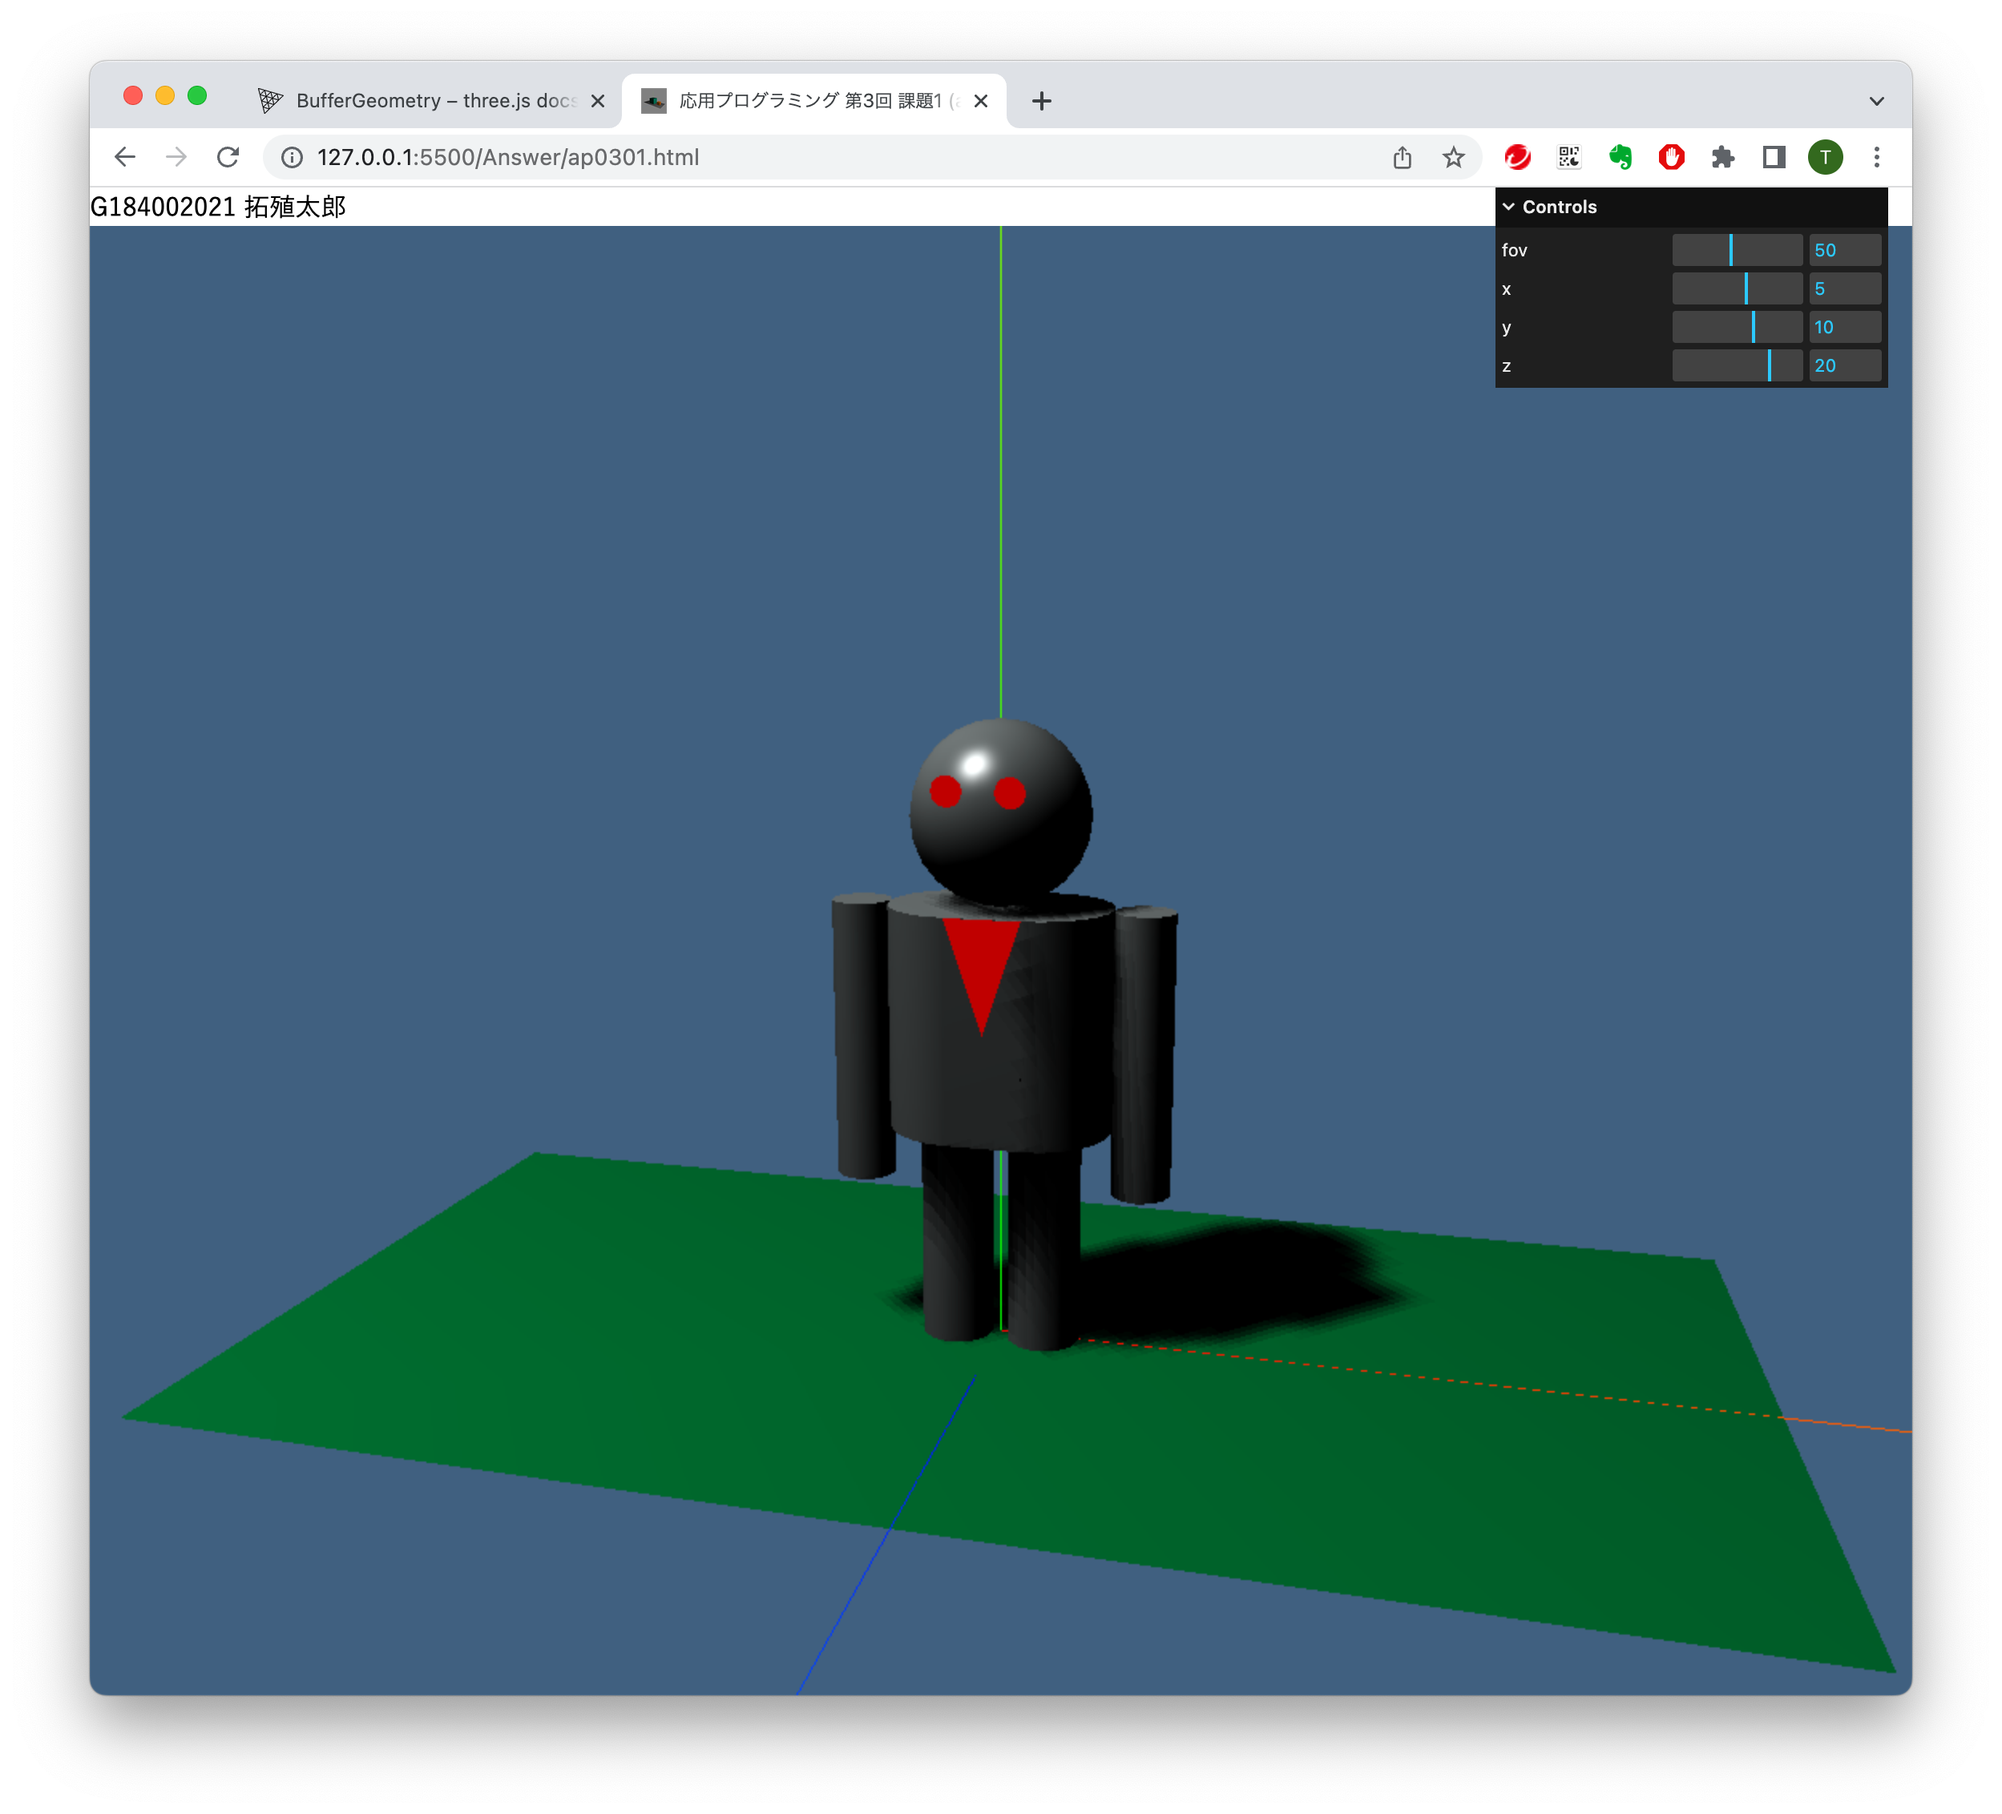
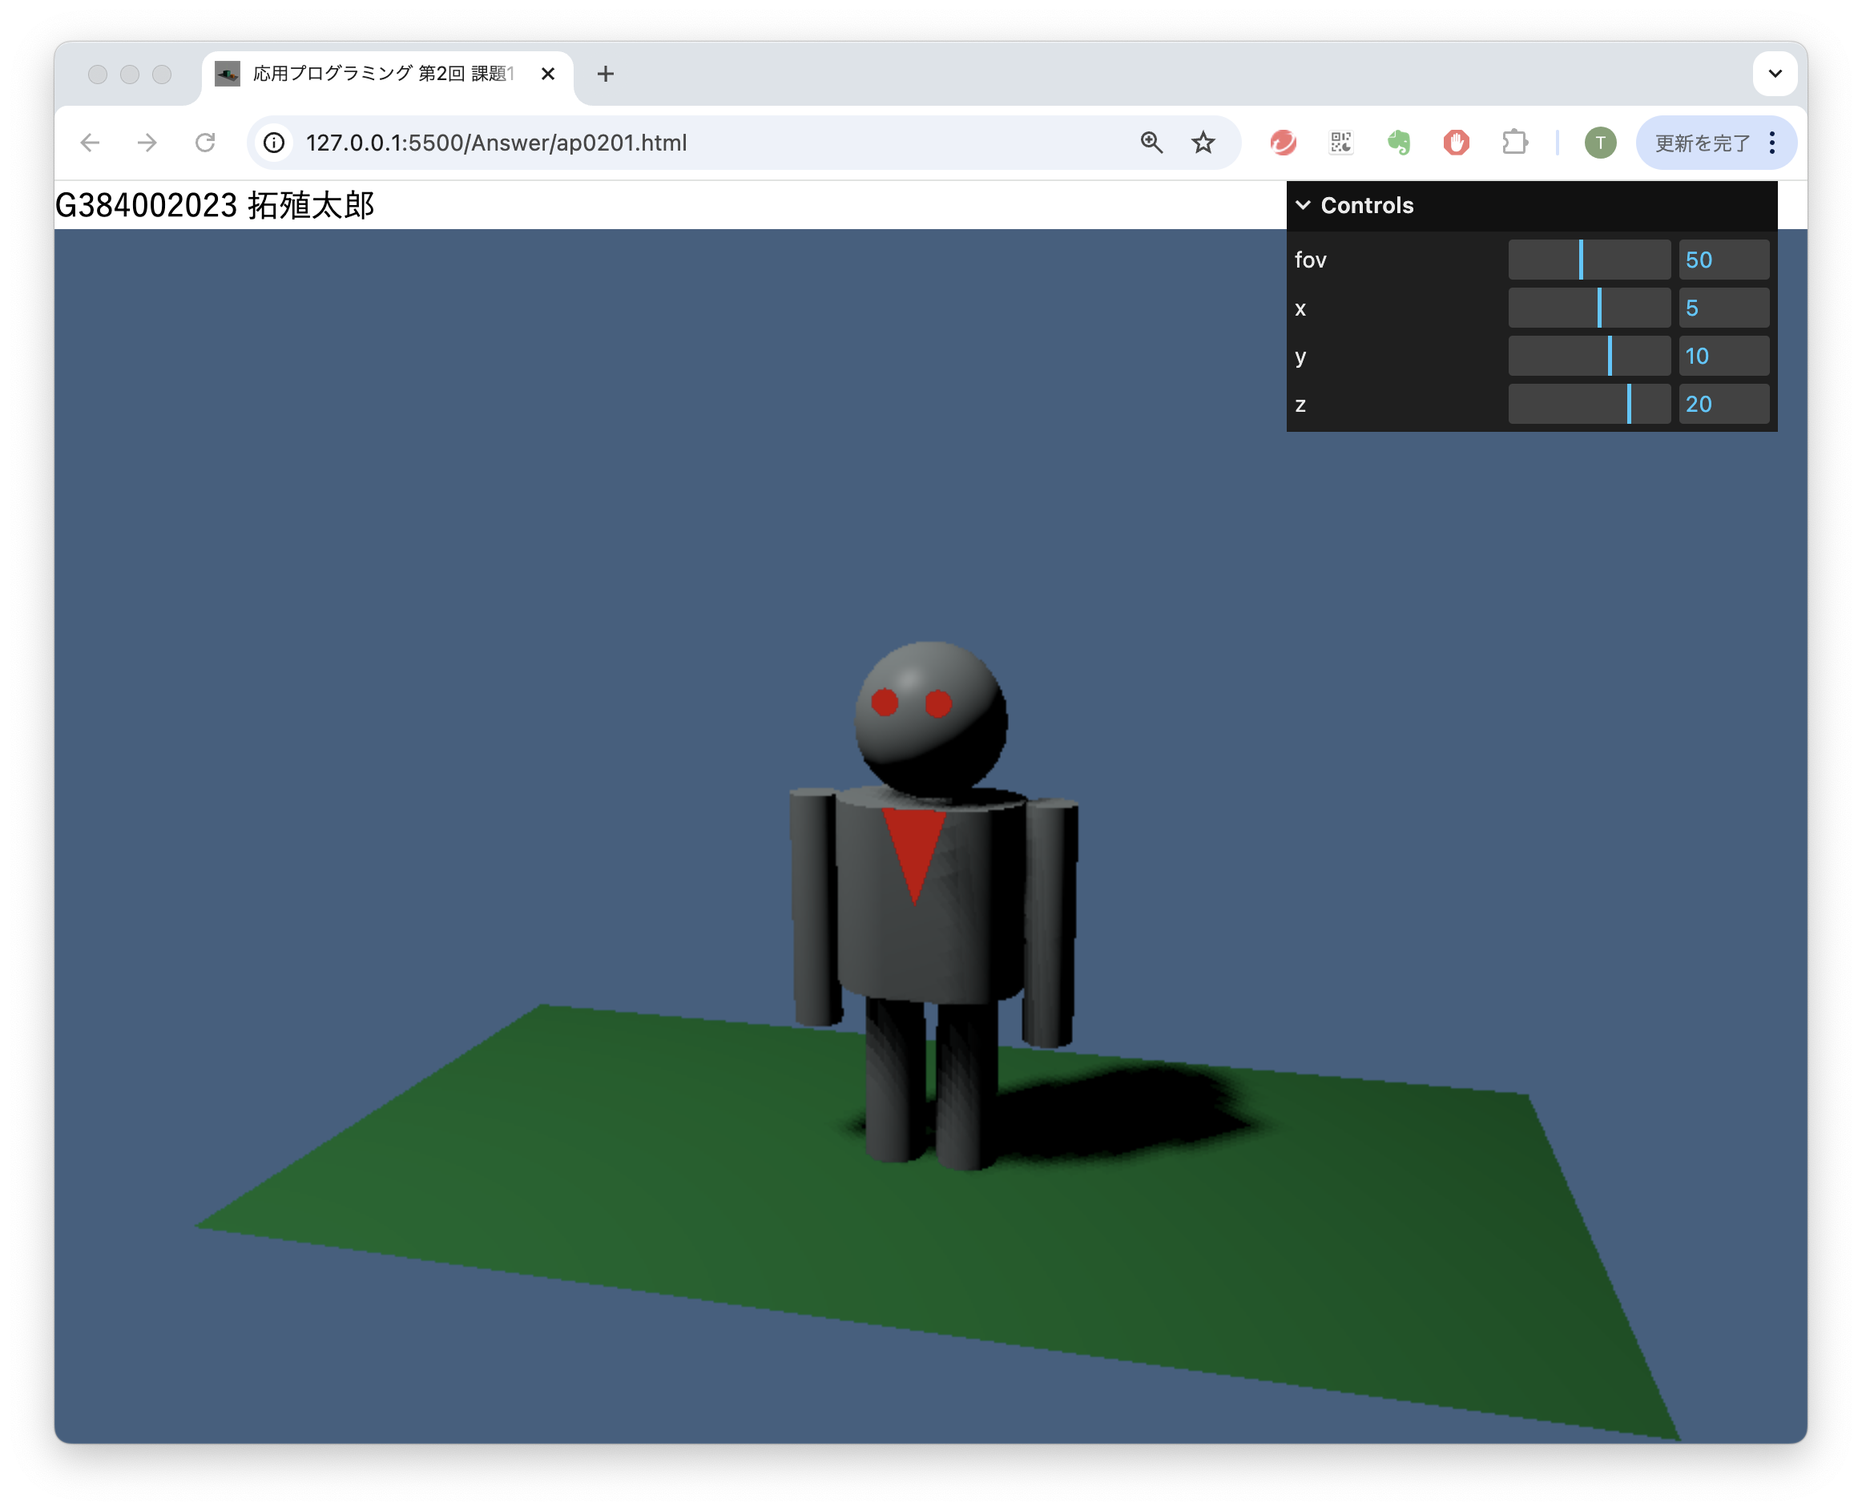
2024年度

diff --git a/ap0201.html b/ap0201.html
@@ -1,0 +1,23 @@
+<!DOCTYPE html>
+<html>
+	<head>
+		<meta charset="utf-8">
+		<title> 応用プログラミング 第2回 課題1 (ap0201)
+		</title>
+		<style>
+		  body { margin: 0; }
+		</style>
+	</head>
+	<body>
+		<div>G384002023 拓殖太郎</div>
+		<div id="WebGL-output"></div>
+		<script type="importmap"> {
+			"imports" : {
+				"three" : "https://cdn.jsdelivr.net/npm/three@0.169.0/build/three.module.js",
+				"three/addons" : "https://cdn.jsdelivr.net/npm/three@0.169.0/examples/jsm/",
+				"ili-gui": "https://cdn.jsdelivr.net/npm/lil-gui@0.19/+esm"
+			}
+		} </script>
+		<script type="module" src="ap0201.js"></script>
+	</body>
+</html>

diff --git a/ap0201.js b/ap0201.js
@@ -1,11 +1,11 @@
 //
-// 応用プログラミング 第3回 課題1 (ap0301)
-// G184002021 拓殖太郎
+// 応用プログラミング 第2回 課題1 (ap0201)
+// G284002022 拓殖太郎
 //
 "use strict"; // 厳格モード
 
 import * as THREE from 'three';
-import GUI from 'gui';
+import GUI from 'ili-gui';
 import { makeMetalRobot } from './robot.js'
 
 // ３Ｄページ作成関数の定義
@@ -38,7 +38,7 @@ function init() {
   scene.add(metalRobot);
 
   // 光源の設定
-  const spotLight = new THREE.SpotLight();
+  const spotLight = new THREE.SpotLight(0xffffff, 2500);
   spotLight.position.set(-10, 30, 10);
   scene.add(spotLight);
 

diff --git a/robot.js b/robot.js
@@ -1,6 +1,6 @@
 //
 // 応用プログラミング (robot)
-// G184002021 拓殖太郎
+// G384002023 拓殖太郎
 //
 "use strict"; // 厳格モード
 

diff --git a/README.md b/README.md
@@ -1,4 +1,4 @@
-# 応用プログラミング 第3回 課題1
+# 応用プログラミング 第2回 課題1
 
 1) 初期コードの 各ファイルに記述されている氏名と学生番号を自分のものに変更せよ．
 
